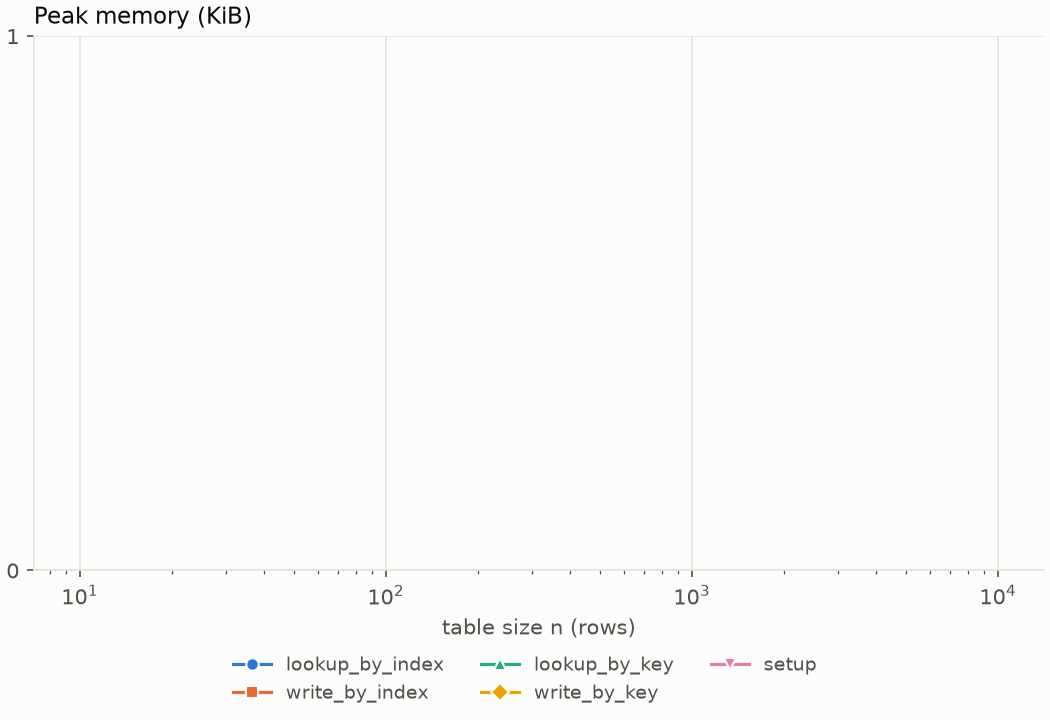
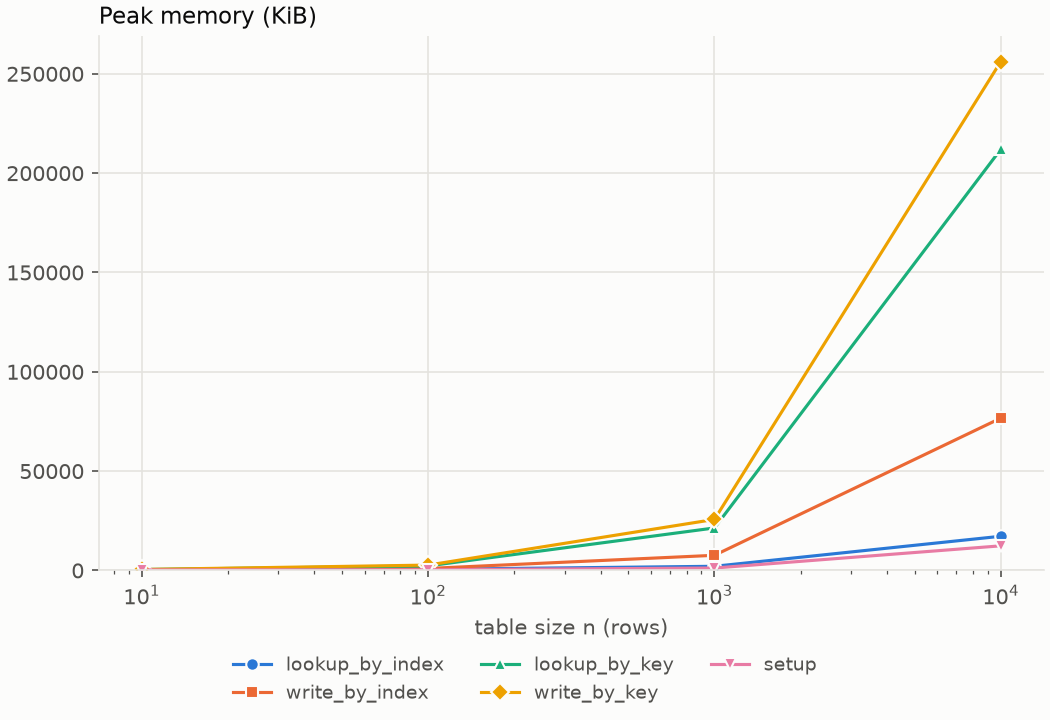
fix plot.py

diff --git a/plot.py b/plot.py
@@ -57,8 +57,6 @@ def style_axes(ax, title, log_y):
         ax.set_yscale('log')
     else:
         ax.set_yscale('linear')
-        ax.set_ylim(0, None)
-        ax.yaxis.get_major_locator().set_params(integer=True)
     ax.set_xlabel('table size n (rows)', color=TEXT_2)
     ax.grid(True, which='major', color=GRID, linewidth=0.8)
     ax.set_axisbelow(True)
@@ -83,6 +81,8 @@ def draw(ax, df, column, title, log_y):
                     markeredgecolor=SURFACE, markeredgewidth=1)
             if column == 'rounds':
                 ax.set_ylim(0, 60)
+    if not log_y:
+        ax.set_ylim(bottom=0)
 
 
 def legend(fig, ax):
